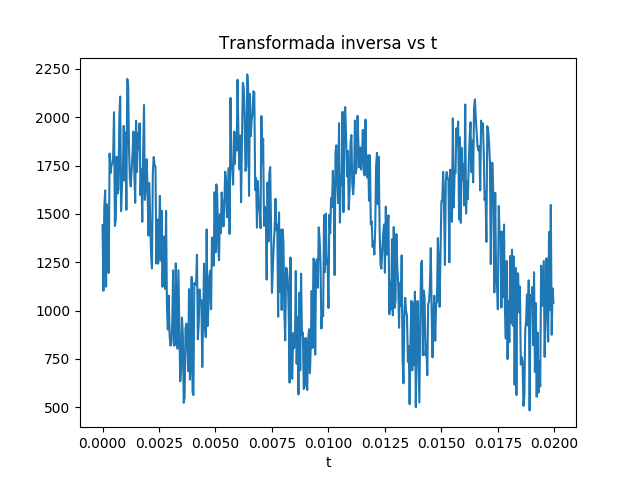
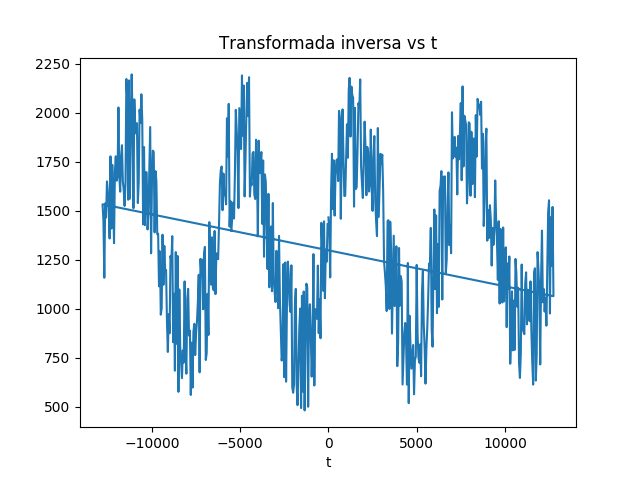
OK

diff --git a/ejercicio4.py b/ejercicio4.py
@@ -19,6 +19,9 @@ y = np.sin(2 * np.pi * f * t) + np.cos(2 * np.pi * f * t * t)
 noise = 1.4*(np.random.rand(n)+0.7)
 y  =  y + noise
 
+fres = np.fft.fftfreq(n,dt)
+#fres = np.fft.fttshift(fre)
+
 plt.plot(t,y)
 plt.title("Senal en funcion de t")
 plt.xlabel("t")
@@ -36,7 +39,7 @@ for k in range(n):
         g += y[k]*m
     fff[k] = g
     
-plt.plot(t,fff)
+plt.plot(fres,fff)
 plt.title("Transformada")
 plt.xlabel("f")
 plt.ylabel("ft")
@@ -56,7 +59,7 @@ for k in range(n):
         g += y[k]*m
     fffi[k] = g
     
-plt.plot(t,fffi)
+plt.plot(fres,fffi)
 plt.title("Transformada inversa vs t")
 plt.xlabel("t")
 #plt.ylabel("y")

diff --git a/ejercicio5.py b/ejercicio5.py
@@ -9,7 +9,11 @@
 
 import numpy as np
 
+oo = 10
+bb = 2.67
+rr = 28.0
 
 
+def 
 
 
